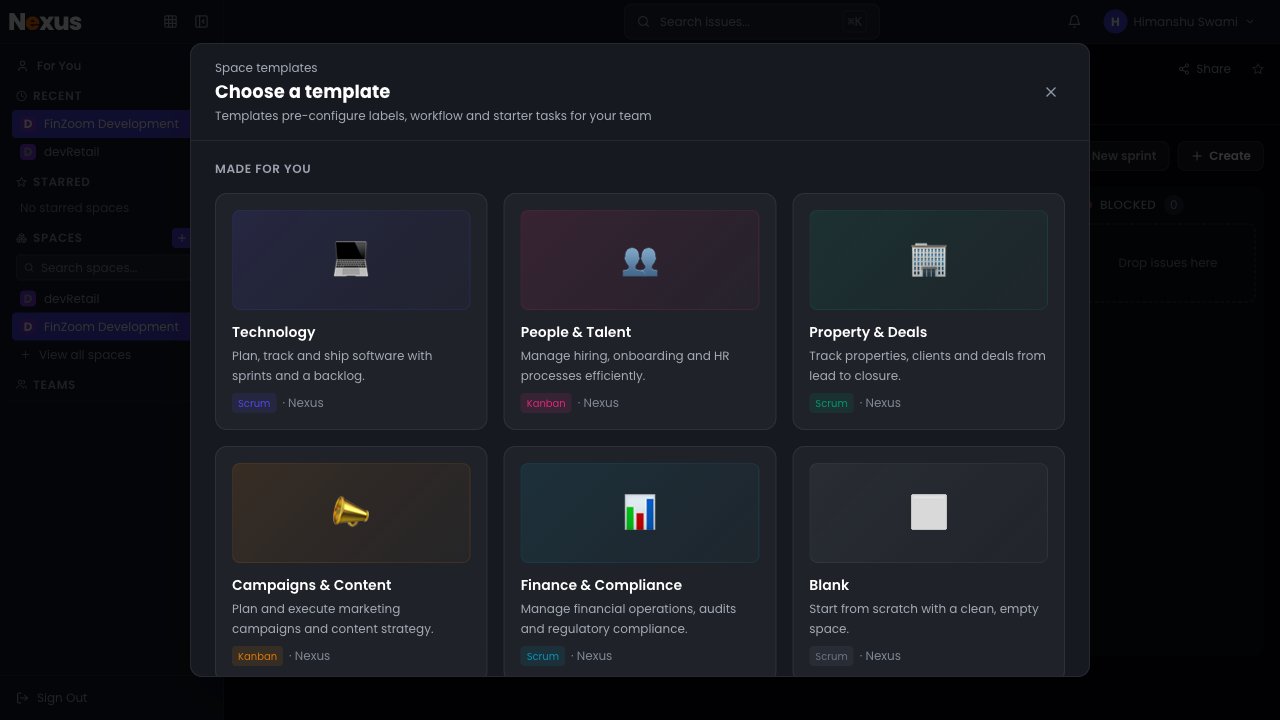
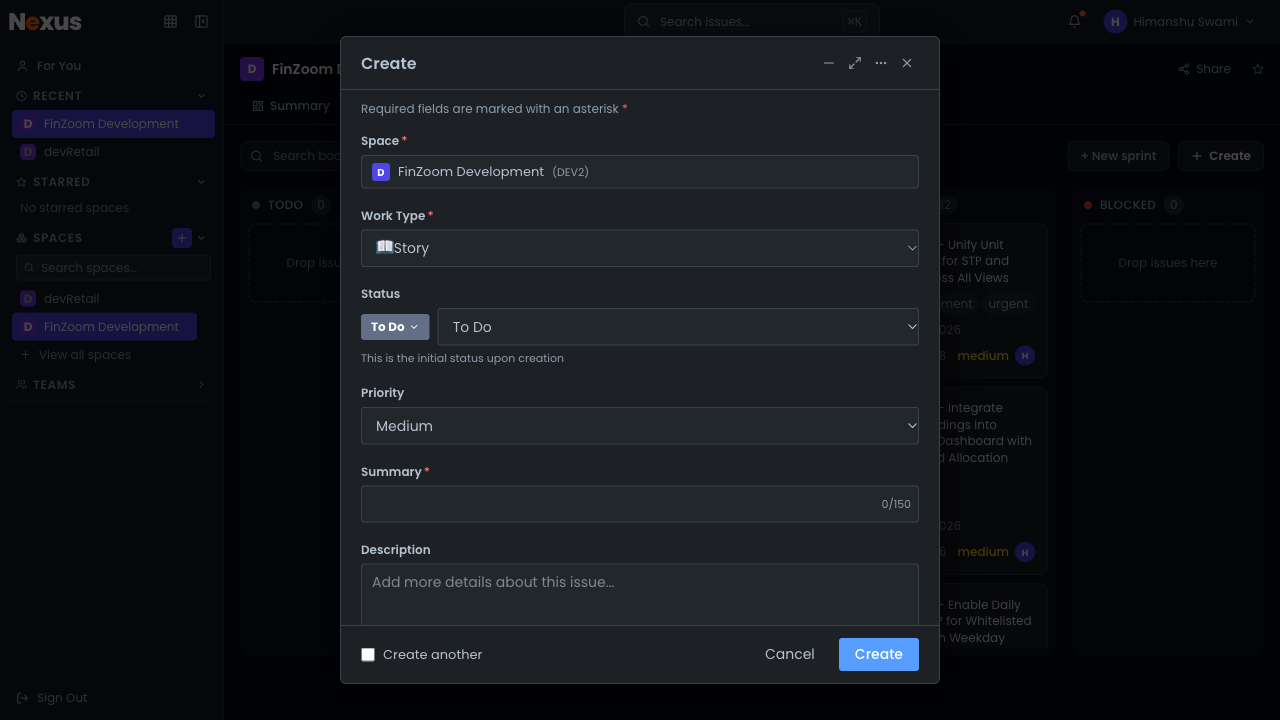
Add manual task generation and update form handling for new work types

diff --git a/app.py b/app.py
@@ -10,7 +10,7 @@ from config import (
 )
 from git_service import get_commits
 from helpers import sort_commits
-from ai_service import generate_ai_task, generate_meeting_task
+from ai_service import generate_ai_task, generate_meeting_task, generate_manual_task
 from nexus_service import submit_task
 from sprintsheet_service import submit_sprintsheet
 
@@ -115,12 +115,12 @@ def main():
 
     while True:
         category = ask_category()
-        prefix, repo_filter = CATEGORIES[category]
+        prefix, repo_filter, work_type = CATEGORIES[category]
         selected = []
 
-        if repo_filter is None:  # Meeting
+        if repo_filter is None:  # Meeting / Manual: no commits, user types agenda
             agenda = questionary.text(
-                "Meeting agenda (Esc+Enter to finish):", multiline=True, style=QSTYLE,
+                f"{'Meeting agenda' if category == 'Meeting' else 'Task agenda'} (Esc+Enter to finish):", multiline=True, style=QSTYLE,
             ).ask() or ""
             if not agenda.strip():
                 console.print("[yellow]⚠ Agenda is empty.[/yellow]")
@@ -156,7 +156,7 @@ def main():
             to_sheet = "Sprint" in targets
             if to_sheet:
                 hours = ask_hours(
-                    "Meeting duration in hours (e.g. 0.5):" if not selected
+                    "Meeting duration in hours (e.g. 0.5):" if category == "Meeting"
                     else "Estimated hours (e.g. 2.25):"
                 )
                 start_time = ask_time()
@@ -164,13 +164,16 @@ def main():
             console.print("[magenta]🤖 Generating title & description...[/magenta]")
             if selected:
                 title, description = generate_ai_task(selected)
-            else:
+            elif category == "Meeting":
                 title, description = generate_meeting_task(agenda)
+            else:
+                title, description = generate_manual_task(agenda)
 
             title = questionary.text(
-                f"Summary ({prefix} is added automatically):", default=title, style=QSTYLE,
+                f"Summary ({prefix} is added automatically):" if prefix else "Summary:",
+                default=title, style=QSTYLE,
             ).ask().strip()
-            title = f"{prefix} {title}"[:150]
+            title = (f"{prefix} {title}" if prefix else title)[:150]
             console.print(Panel(description, title="Description", border_style="green"))
             if questionary.confirm("Edit description?", default=False, style=QSTYLE).ask():
                 description = questionary.text(
@@ -180,12 +183,12 @@ def main():
 
             console.print(
                 f"Summary: [bold]{title}[/bold]\n"
-                f"Sprint: [bold]{sprint}[/bold] | Labels: {labels or '-'} | Date: {date_iso}"
+                f"Work type: [bold]{work_type}[/bold] | Sprint: [bold]{sprint}[/bold] | Labels: {labels or '-'} | Date: {date_iso}"
             )
             if questionary.confirm(f"Upload to {targets}?", default=True, style=QSTYLE).ask():
                 if to_nexus:
                     console.print("[cyan]→ Nexus...[/cyan]")
-                    ok = submit_task(title, description, selected, labels, date_iso, sprint)
+                    ok = submit_task(title, description, selected, labels, date_iso, sprint, work_type)
                     console.print("[bold green]✅ Nexus done[/bold green]" if ok
                                   else "[bold red]❌ Nexus failed[/bold red]")
                 if to_sheet:

diff --git a/nexus_service.py b/nexus_service.py
@@ -6,7 +6,7 @@ from playwright.sync_api import sync_playwright
 from config import (
     HEADLESS, BRAVE_PATH,
     NEXUS_BOARD_URL, PROJECT_SPRINT_MAP,
-    WORK_TYPE, STATUS, PRIORITY, ASSIGNEE, REPORTER,
+    STATUS, PRIORITY, ASSIGNEE, REPORTER,
 )
 
 from helpers import close_browser
@@ -150,7 +150,7 @@ def open_nexus_app(page):
 # FILL FORM
 # =====================================
 
-def fill_form(page, title, description, labels, date_iso, sprint):
+def fill_form(page, title, description, labels, date_iso, sprint, work_type):
     page.get_by_role("button", name="Create").first.click()
 
     modal = page.locator(
@@ -158,10 +158,10 @@ def fill_form(page, title, description, labels, date_iso, sprint):
     )
     modal.wait_for(state="visible", timeout=15000)
 
-    field(modal, "Work Type").locator("select").select_option(WORK_TYPE)
+    field(modal, "Work Type").locator("select").select_option(work_type)
     set_status(page, modal)
     field(modal, "Priority").locator("select").select_option(PRIORITY)
-    print("✅ Work type / Status / Priority set")
+    print(f"✅ Work type ({work_type}) / Status / Priority set")
 
     field(modal, "Summary").locator("input").fill(title)
     field(modal, "Description").locator("textarea").fill(description)
@@ -212,7 +212,7 @@ def fill_form(page, title, description, labels, date_iso, sprint):
 # =====================================
 
 def submit_task(title, description, selected_commits, labels, date_iso,
-                sprint=None) -> bool:
+                sprint=None, work_type="task") -> bool:
     sprint = sprint or get_sprint(selected_commits)
     success = False
 
@@ -232,7 +232,7 @@ def submit_task(title, description, selected_commits, labels, date_iso,
                 page.goto(NEXUS_BOARD_URL)
             page.get_by_role("button", name="Create").first.wait_for(timeout=30000)
 
-            modal = fill_form(page, title, description, labels, date_iso, sprint)
+            modal = fill_form(page, title, description, labels, date_iso, sprint, work_type)
             page.wait_for_timeout(800)
 
             # Footer "Create" button (last one inside modal)

diff --git a/config.py b/config.py
@@ -25,18 +25,19 @@ PROJECT_SPRINT_MAP = {
 }
 
 # Fixed form values
-WORK_TYPE = "task"
 STATUS    = "Done"   # matched by visible label
 PRIORITY  = "medium"
 ASSIGNEE  = "Himanshu Swami"
 REPORTER  = "Vishal Yadav"
 
-# Task category -> (summary prefix, repo-name filter)
+# Task category -> (summary prefix, repo-name filter, Nexus work type)
+# repo filter None = no commits; the user types an agenda instead
 CATEGORIES = {
-    "Meeting":     ("Meeting-",     None),
-    "Web Dev":     ("Web Dev-",     lambda r: r.endswith("_r_fe")),
-    "App Dev":     ("App Dev-",     lambda r: r.endswith("_fe") and not r.endswith("_r_fe")),
-    "Backend Dev": ("Backend Dev-", lambda r: r.endswith("_be")),
+    "Meeting":     ("Meeting-",     None, "task"),
+    "Web Dev":     ("Web Dev-",     lambda r: r.endswith("_r_fe"), "enhancement"),
+    "App Dev":     ("App Dev-",     lambda r: r.endswith("_fe") and not r.endswith("_r_fe"), "enhancement"),
+    "Backend Dev": ("Backend Dev-", lambda r: r.endswith("_be"), "enhancement"),
+    "Manual":      ("",             None, "task"),
 }
 
 LABEL_OPTIONS = ["feature", "bug", "improvement", "urgent", "documentation"]

diff --git a/ai_service.py b/ai_service.py
@@ -71,6 +71,31 @@ Summary here.
     return _ask_ai(prompt, fallback=(agenda.splitlines()[0][:140], agenda))
 
 
+def generate_manual_task(agenda):
+    """Return (title, description) for a manually described task."""
+    prompt = f"""
+Create a professional task entry from the user's description of work done.
+
+Task agenda (from the user):
+{agenda}
+
+Rules:
+- Title: concise, captures the real theme/impact of the work, max 12 words, under 140 characters
+- Description: professional summary of the work and its goals
+- Suitable for managers and reporting, avoid excessive jargon
+- Plain text only, no markdown
+
+Output format:
+
+Title:
+Something
+
+Description:
+Summary here.
+"""
+    return _ask_ai(prompt, fallback=(agenda.splitlines()[0][:140], agenda))
+
+
 def _ask_ai(prompt, fallback):
     try:
         response = client.chat.completions.create(
